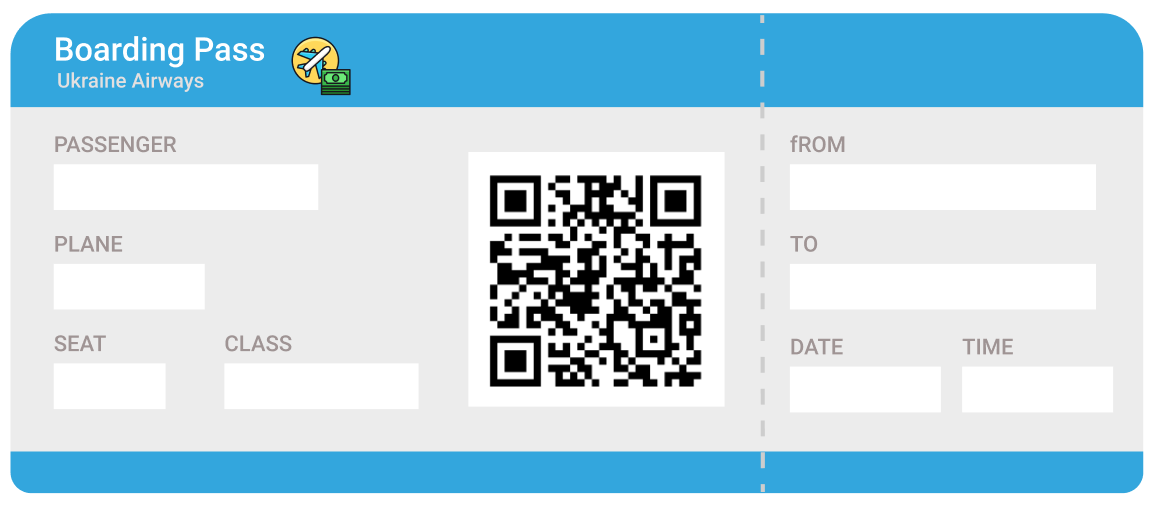
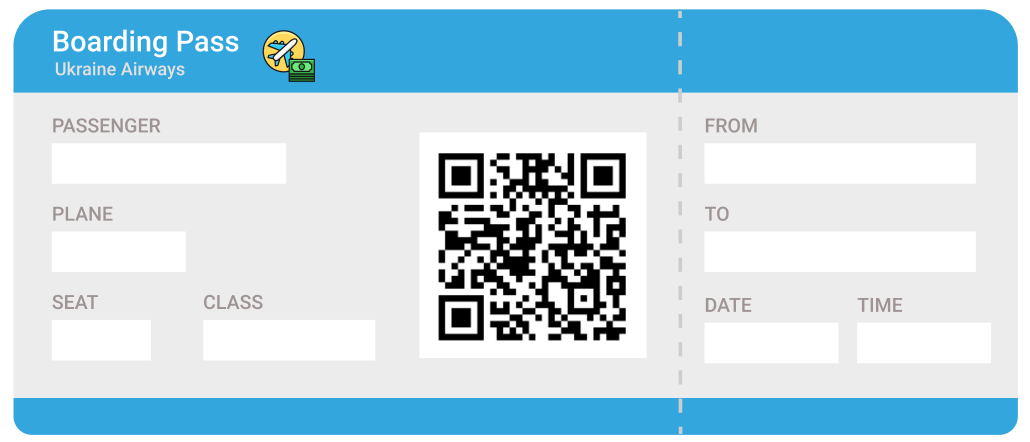
Added boardingPass adaptivity

diff --git a/frontend/src/components/account/index.tsx b/frontend/src/components/account/index.tsx
@@ -140,22 +140,40 @@ const Account: React.FC = () => {
           <Modal.Title>Your Ticket</Modal.Title>
         </Modal.Header>
         <Modal.Body className={styles.modal}>
-          <span>{fullName}</span>
-          <span>{ticketInfo?.planeName}</span>
-          <span>{ticketInfo?.placeNumber}</span>
-          <span>
-            {businessPlaces.includes(ticketInfo?.placeNumber ?? '')
-              ? 'business'
-              : 'economy'}
-          </span>
-          <span>{routes.find((route) => route.id === chosenRoute)?.from}</span>
-          <span>{routes.find((route) => route.id === chosenRoute)?.to}</span>
-          <span>
-            {routes.find((route) => route.id === chosenRoute)?.startDate}
-          </span>
-          <span>
-            {routes.find((route) => route.id === chosenRoute)?.startTime}
-          </span>
+          <div className={styles.container1}>
+            <span className={getAllowedClasses(styles.fullName)}>
+              {fullName}
+            </span>
+            <span className={getAllowedClasses(styles.planeType)}>
+              {ticketInfo?.planeName}
+            </span>
+            <div className={styles.container11}>
+              <span className={getAllowedClasses(styles.placeNumber)}>
+                {ticketInfo?.placeNumber}
+              </span>
+              <span className={getAllowedClasses(styles.placeClass)}>
+                {businessPlaces.includes(ticketInfo?.placeNumber ?? '')
+                  ? 'business'
+                  : 'economy'}
+              </span>
+            </div>
+          </div>
+          <div className={styles.container2}>
+            <span className={getAllowedClasses(styles.fromAirport)}>
+              {routes.find((route) => route.id === chosenRoute)?.from}
+            </span>
+            <span className={getAllowedClasses(styles.toAirport)}>
+              {routes.find((route) => route.id === chosenRoute)?.to}
+            </span>
+            <div className={styles.container21}>
+              <span className={getAllowedClasses(styles.startDate)}>
+                {routes.find((route) => route.id === chosenRoute)?.startDate}
+              </span>
+              <span className={getAllowedClasses(styles.startTime)}>
+                {routes.find((route) => route.id === chosenRoute)?.startTime}
+              </span>
+            </div>
+          </div>
         </Modal.Body>
       </Modal>
     </>

diff --git a/frontend/src/components/account/styles.module.scss b/frontend/src/components/account/styles.module.scss
@@ -67,11 +67,55 @@
 
 .modal {
   width: 100%;
-  height: 50vh;
+  height: 62vh;
   display: flex;
-  align-items: center;
   background: url('../../assets/img/boarding-pass.png');
   background-position: center;
   background-size: 100%;
   background-repeat: no-repeat;
+  font-weight: 500;
+
+  .container1 {
+    display: flex;
+    flex-direction: column;
+    margin-left: 30px;
+
+    .fullName {
+      margin-top: 107px;
+    }
+
+    .planeType {
+      margin-top: 45px;
+    }
+
+    .container11 {
+      display: flex;
+      margin-top: 43px;
+      .placeClass {
+        margin-left: 90px;
+      }
+    }
+  }
+  .container2 {
+    display: flex;
+    flex-direction: column;
+    margin-left: 323px;
+
+    .fromAirport {
+      margin-top: 107px;
+    }
+
+    .toAirport {
+      margin-top: 45px;
+    }
+
+    .container21 {
+      display: flex;
+      margin-top: 45px;
+
+      .startTime {
+        margin-left: 40px;
+      }
+    }
+  }
 }
